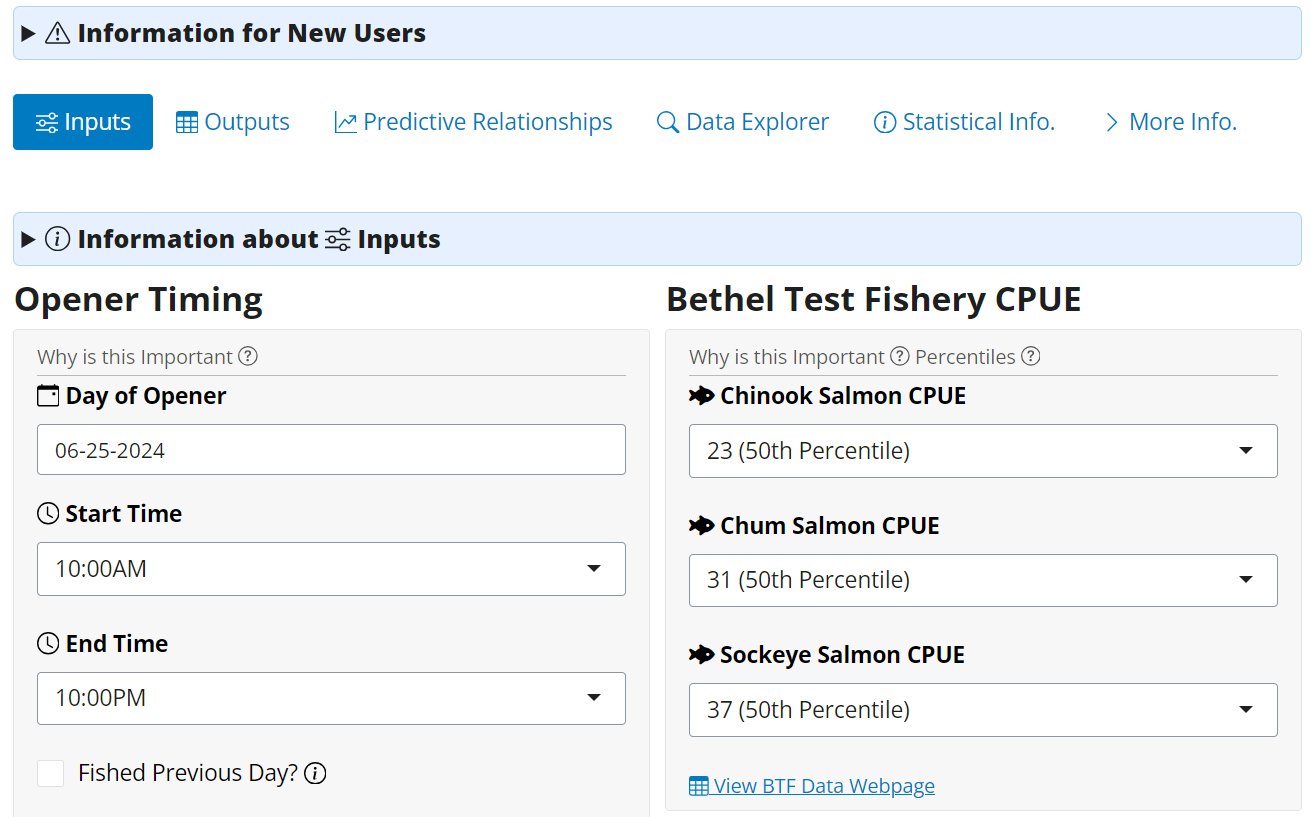
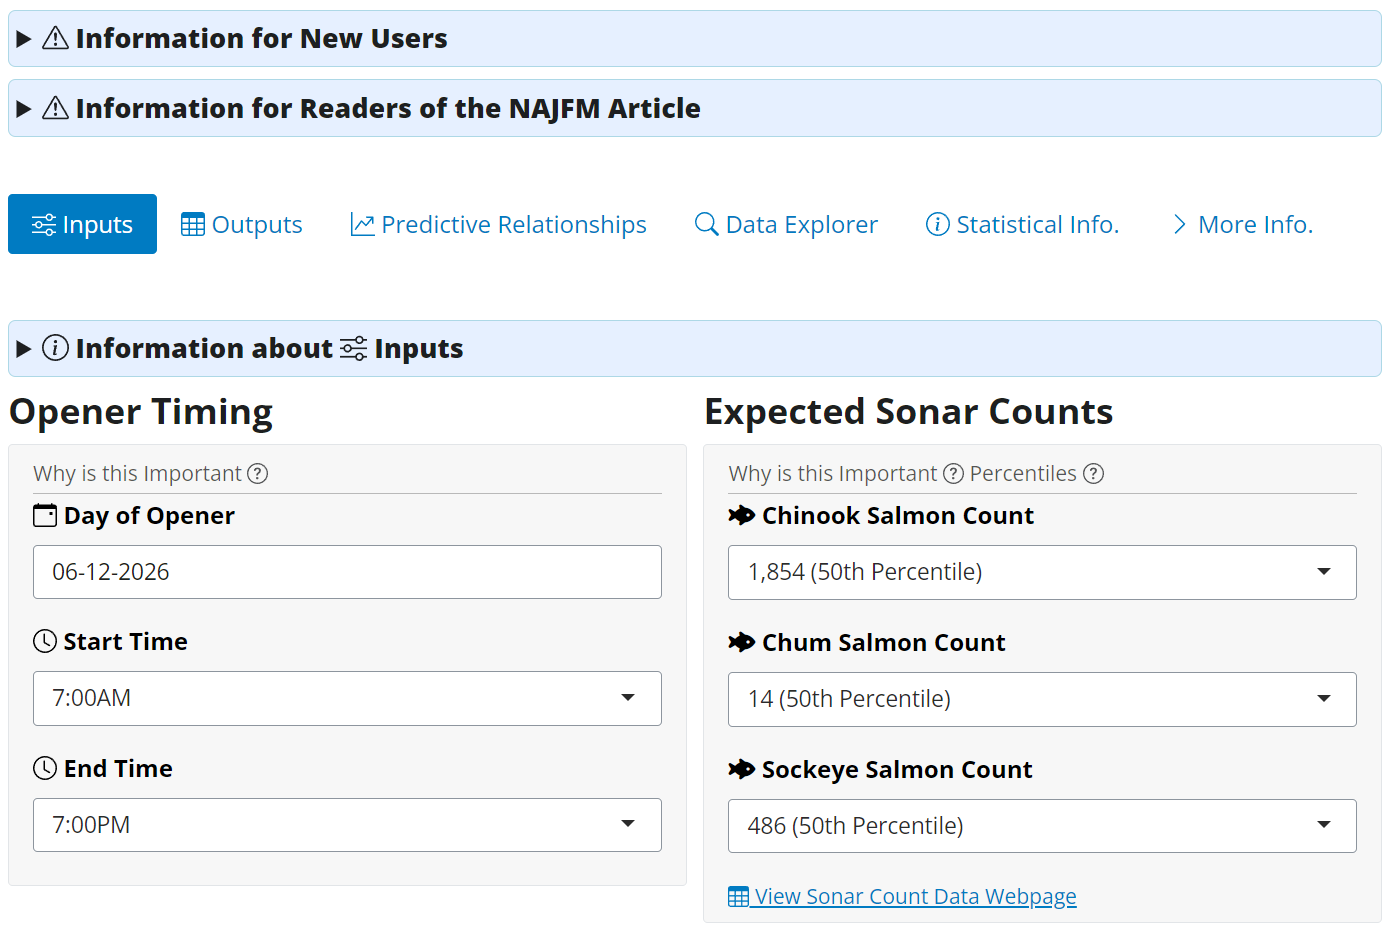
Update README

diff --git a/README.md b/README.md
@@ -9,7 +9,7 @@
 
 ## The Predictive Tool
 
-Upon accessing the tool, users will arrive at this page, where they will enter characteristics of the opener they wish to predict fishery outcomes and harvest for: timing and Bethel Test Fishery (a daily fishery-independent index of in-river salmon abundance and species composition).
+Upon accessing the tool, users will arrive at this page, where they will enter characteristics of the opener they wish to predict fishery outcomes and harvest for: timing and expected sonar counts (a daily fishery-independent index of in-river salmon abundance and species composition useful for predicting the catch rate and species composition of fishery harvests).
 
 <p align="center">
   <img src="man/figures/readme-SS/input-tab.png" width="500"/>
@@ -72,11 +72,11 @@ vignette("updating-predictions", package = "KuskoHarvPred")
 
 The approach for predicting outcomes of future openers based on past data contained in 'KuskoHarvPred' can be found in the manuscript:
 
->_In-season predictions of daily harvest for lower Kuskokwim River subsistence salmon fisheries_ by B. A. Staton, W. R. Bechtol, L. G. Coggins Jr., and G. Decossas, submitted to the _North American Journal of Fisheries Management_ (analysis repository: [bstaton1/KuskoHarvPred-ms-analysis](https://www.github.com/bstaton1/KuskoHarvPred-ms-analysis); archived under DOI [10.5281/zenodo.13293677](https://doi.org/10.5281/zenodo.13293677)). 
+>_In-season predictions of daily harvest for lower Kuskokwim River subsistence salmon fisheries_ by B. A. Staton, W. R. Bechtol, L. G. Coggins Jr., and G. Decossas, published in the _North American Journal of Fisheries Management_ (Article DOI: [10.1093/najfmt/vqaf055](https://doi.org/10.1093/najfmt/vqaf055); analysis repository: [bstaton1/KuskoHarvPred-ms-analysis](https://www.github.com/bstaton1/KuskoHarvPred-ms-analysis); archived under DOI [10.5281/zenodo.13293677](https://doi.org/10.5281/zenodo.13293677)). 
 
 A description of the sampling methodology and estimation framework can be found in the manuscript:
 
->_In-season monitoring of harvest and effort from a large-scale subsistence salmon fishery in western Alaska_ by B. A. Staton, W. R. Bechtol, L. G. Coggins Jr., G. Decossas, and J. Esquible, submitted to the _Canadian Journal of Fisheries and Aquatic Sciences_ (analysis repository: [bstaton1/KuskoHarvEst-ms-analysis](https://github.com/bstaton1/KuskoHarvEst-ms-analysis); archived under DOI [10.5281/zenodo.10369148](https://doi.org/10.5281/zenodo.10369148)).
+>_In-season monitoring of harvest and effort from a large-scale subsistence salmon fishery in western Alaska_ by B. A. Staton, W. R. Bechtol, L. G. Coggins Jr., G. Decossas, and J. Esquible, published in the _Canadian Journal of Fisheries and Aquatic Sciences_ (Article DOI: [10.1139/cjfas-2023-0369](https://doi.org/10.1139/cjfas-2023-0369); analysis repository: [bstaton1/KuskoHarvEst-ms-analysis](https://github.com/bstaton1/KuskoHarvEst-ms-analysis); archived under DOI [10.5281/zenodo.10369148](https://doi.org/10.5281/zenodo.10369148)).
 
 ## Contact
 